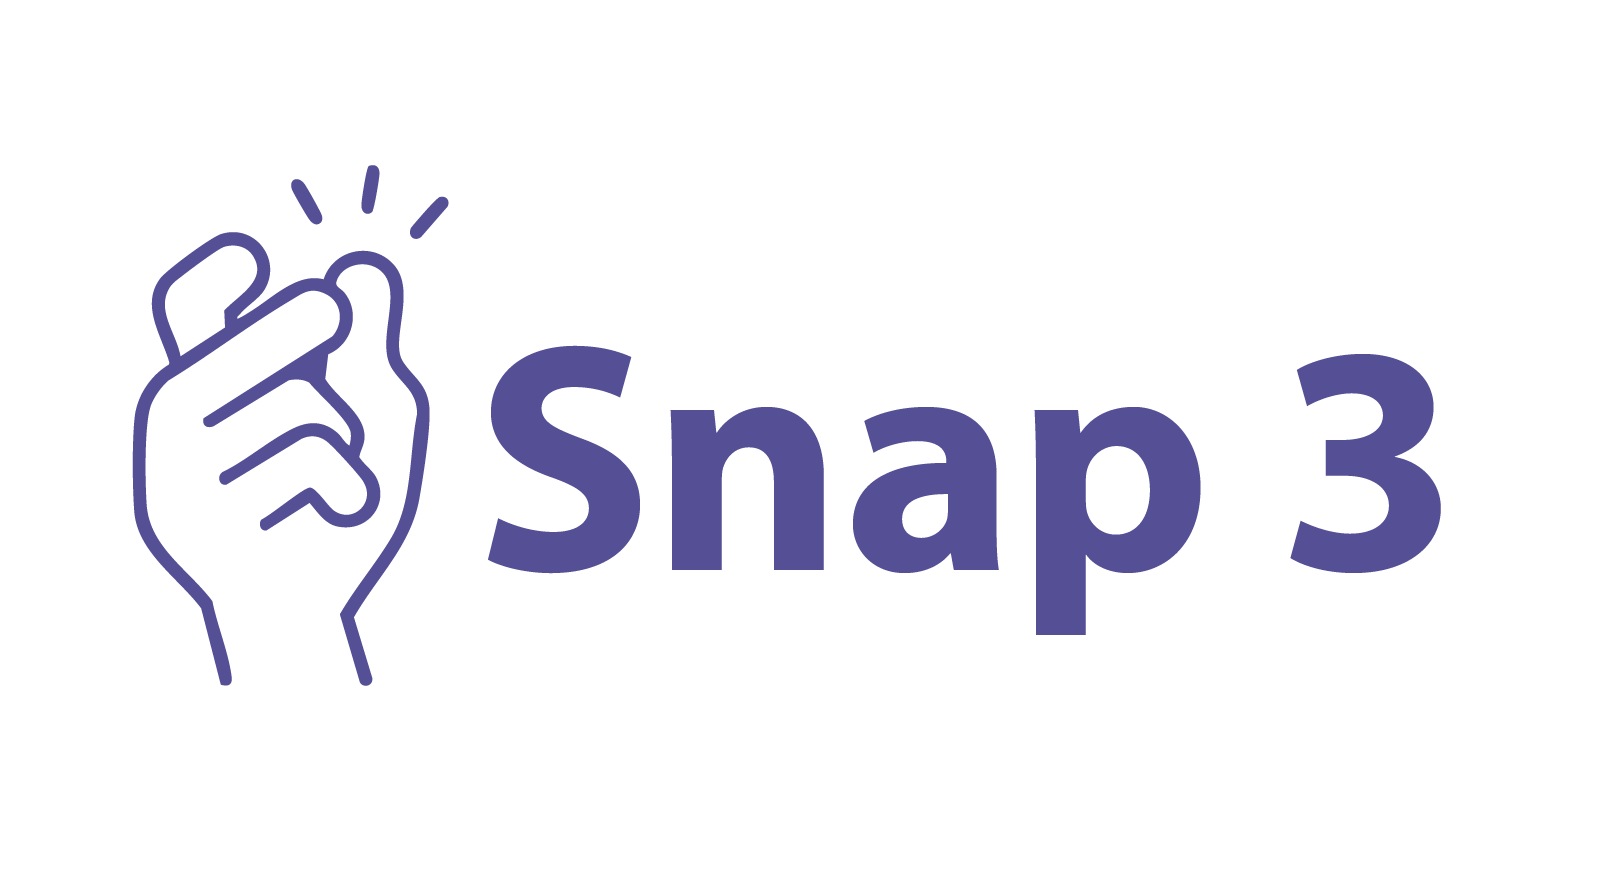
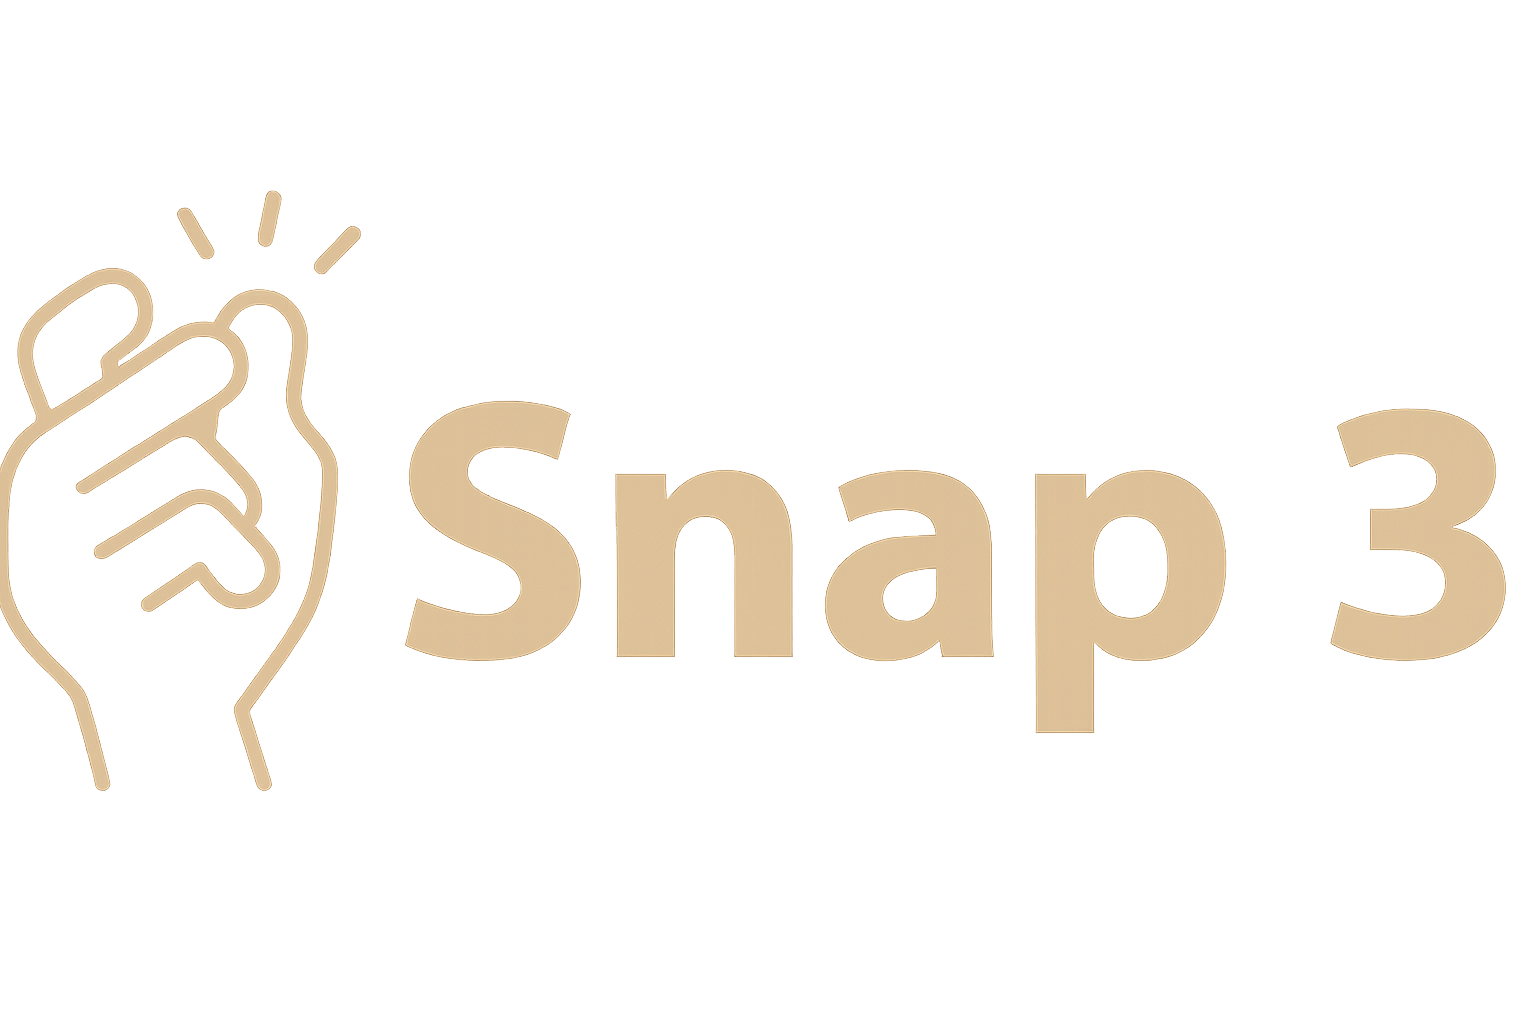
Add files via upload

Changed region(s): [[0.0, 0.1826, 1.0, 0.7914]]

diff --git a/CSS/SVEstilos.css b/CSS/SVEstilos.css
@@ -820,7 +820,7 @@ a.card-link p {
     justify-content: center;
     width: 36px;
     height: 36px;
-    background-color: #4c438c;
+    background-color: #D7B48A;
     color: white;
     border-radius: 50%;
     font-size: 16px;
@@ -834,8 +834,15 @@ a.card-link p {
 }
 
 .btn-get-hired {
-    background-color: #4c438c;
-    color: #fff;
+    background-color:#D7B48A;
+        background: linear-gradient(
+        to right,
+        #D7B48A 0%,      /* Oro puro a la izquierda */
+        #D7B48A 45%,     /* Gradiente comienza en 45% */
+        white 55%,     /* Transición a dorado oscuro en 55% */
+        #D7B48A 100%     /* Dorado oscuro a la derecha */
+    );
+    color: #9A9A9A;
     padding: 6px 16px;
     border-radius: 12px;
     text-decoration: none;
@@ -845,7 +852,15 @@ a.card-link p {
 }
 
 .btn-get-hired:hover {
-    background-color: #3a3270;
+      background-color:#D7B48A;
+        background: linear-gradient(
+        to right,
+        #D7B48A 0%,      /* Oro puro a la izquierda */
+        #D7B48A 45%,     /* Gradiente comienza en 45% */
+        white 55%,     /* Transición a dorado oscuro en 55% */
+        #D7B48A 100%     /* Dorado oscuro a la derecha */
+    );
+    color: #9A9A9A;
 }
 .contact-info {
   margin-top: 1rem; /* Adds space between social icons and contact info */
@@ -1018,8 +1033,15 @@ a.card-link p {
     bottom: 30px;
     right: 30px;
     z-index: 99;
-    background-color: #25D366;
-    color: white;
+      background-color:#D7B48A;
+        background: linear-gradient(
+        to right,
+        #D7B48A 0%,      /* Oro puro a la izquierda */
+        #D7B48A 45%,     /* Gradiente comienza en 45% */
+        white 55%,     /* Transición a dorado oscuro en 55% */
+        #D7B48A 100%     /* Dorado oscuro a la derecha */
+    );
+    color: #9A9A9A;
     border-radius: 50px;
     padding: 15px;
     box-shadow: 0 4px 12px rgba(0, 0, 0, 0.2);
@@ -1036,8 +1058,15 @@ a.card-link p {
     bottom: 100px;
     right: 30px;
     z-index: 99;
-    background-color: #5b57a4;
-    color: white;
+      background-color:#D7B48A;
+        background: linear-gradient(
+        to right,
+        #D7B48A 0%,      /* Oro puro a la izquierda */
+        #D7B48A 45%,     /* Gradiente comienza en 45% */
+        white 55%,     /* Transición a dorado oscuro en 55% */
+        #D7B48A 100%     /* Dorado oscuro a la derecha */
+    );
+    color: #9A9A9A;
     border-radius: 50px;
     padding: 15px;
     box-shadow: 0 4px 12px rgba(0, 0, 0, 0.2);
@@ -1126,7 +1155,6 @@ a.card-link p {
 }
 
 .apply-btn:hover {
-  background: #1a2245;
 }
 
 

diff --git a/index.html b/index.html
@@ -28,7 +28,7 @@
           <div class="navbar-mobile-container d-flex d-lg-none w-100 align-items-center">
             <!-- Logo -->
             <a class="navbar-brand" href="index.html">
-              <img src="IMG/int_Log_1.jpeg" alt="SnapVAS Logo" class="logo-img">
+              <img src="IMG/int_log_1.png" alt="SnapVAS Logo" class="logo-img">
             </a>
             
             <!-- Spacer to center Hire button -->
@@ -100,7 +100,7 @@
                 </h4>
                 <div class="col-12">
                 <a href="" class="btn btn-primary" style="background-color: #EAD8BE;">Agenda Una cita </a>
-                <a href="" class="btn btn-primary" style="background-color: whitesmoke; color: rgb(86,71,151);">Contactanos</a>
+                <a href="" class="btn btn-primary" style="background-color: whitesmoke; color: #9A9A9A;">Nuestros Servicios</a>
                 </div>
             </div>
             <div id="Mainintro-s2"  class="col-12 col-md-5 d-flex justify-content-center align-items-center">
@@ -604,7 +604,7 @@
         <div class="d-flex flex-column">
           <div class="d-flex align-items-center mb-3">
             <a href="index.html">
-              <img src="IMG/int_Log_1.jpeg" alt="Integra Clinic Logo" style="max-height: 30px;">
+              <img src="IMG/log_BL.png" alt="Integra Clinic Logo" style="max-height: 30px;">
             </a>
             <div class="ms-3 d-flex gap-2">
               <a href="#" class="social-icon"><i class="fab fa-instagram"></i></a>
